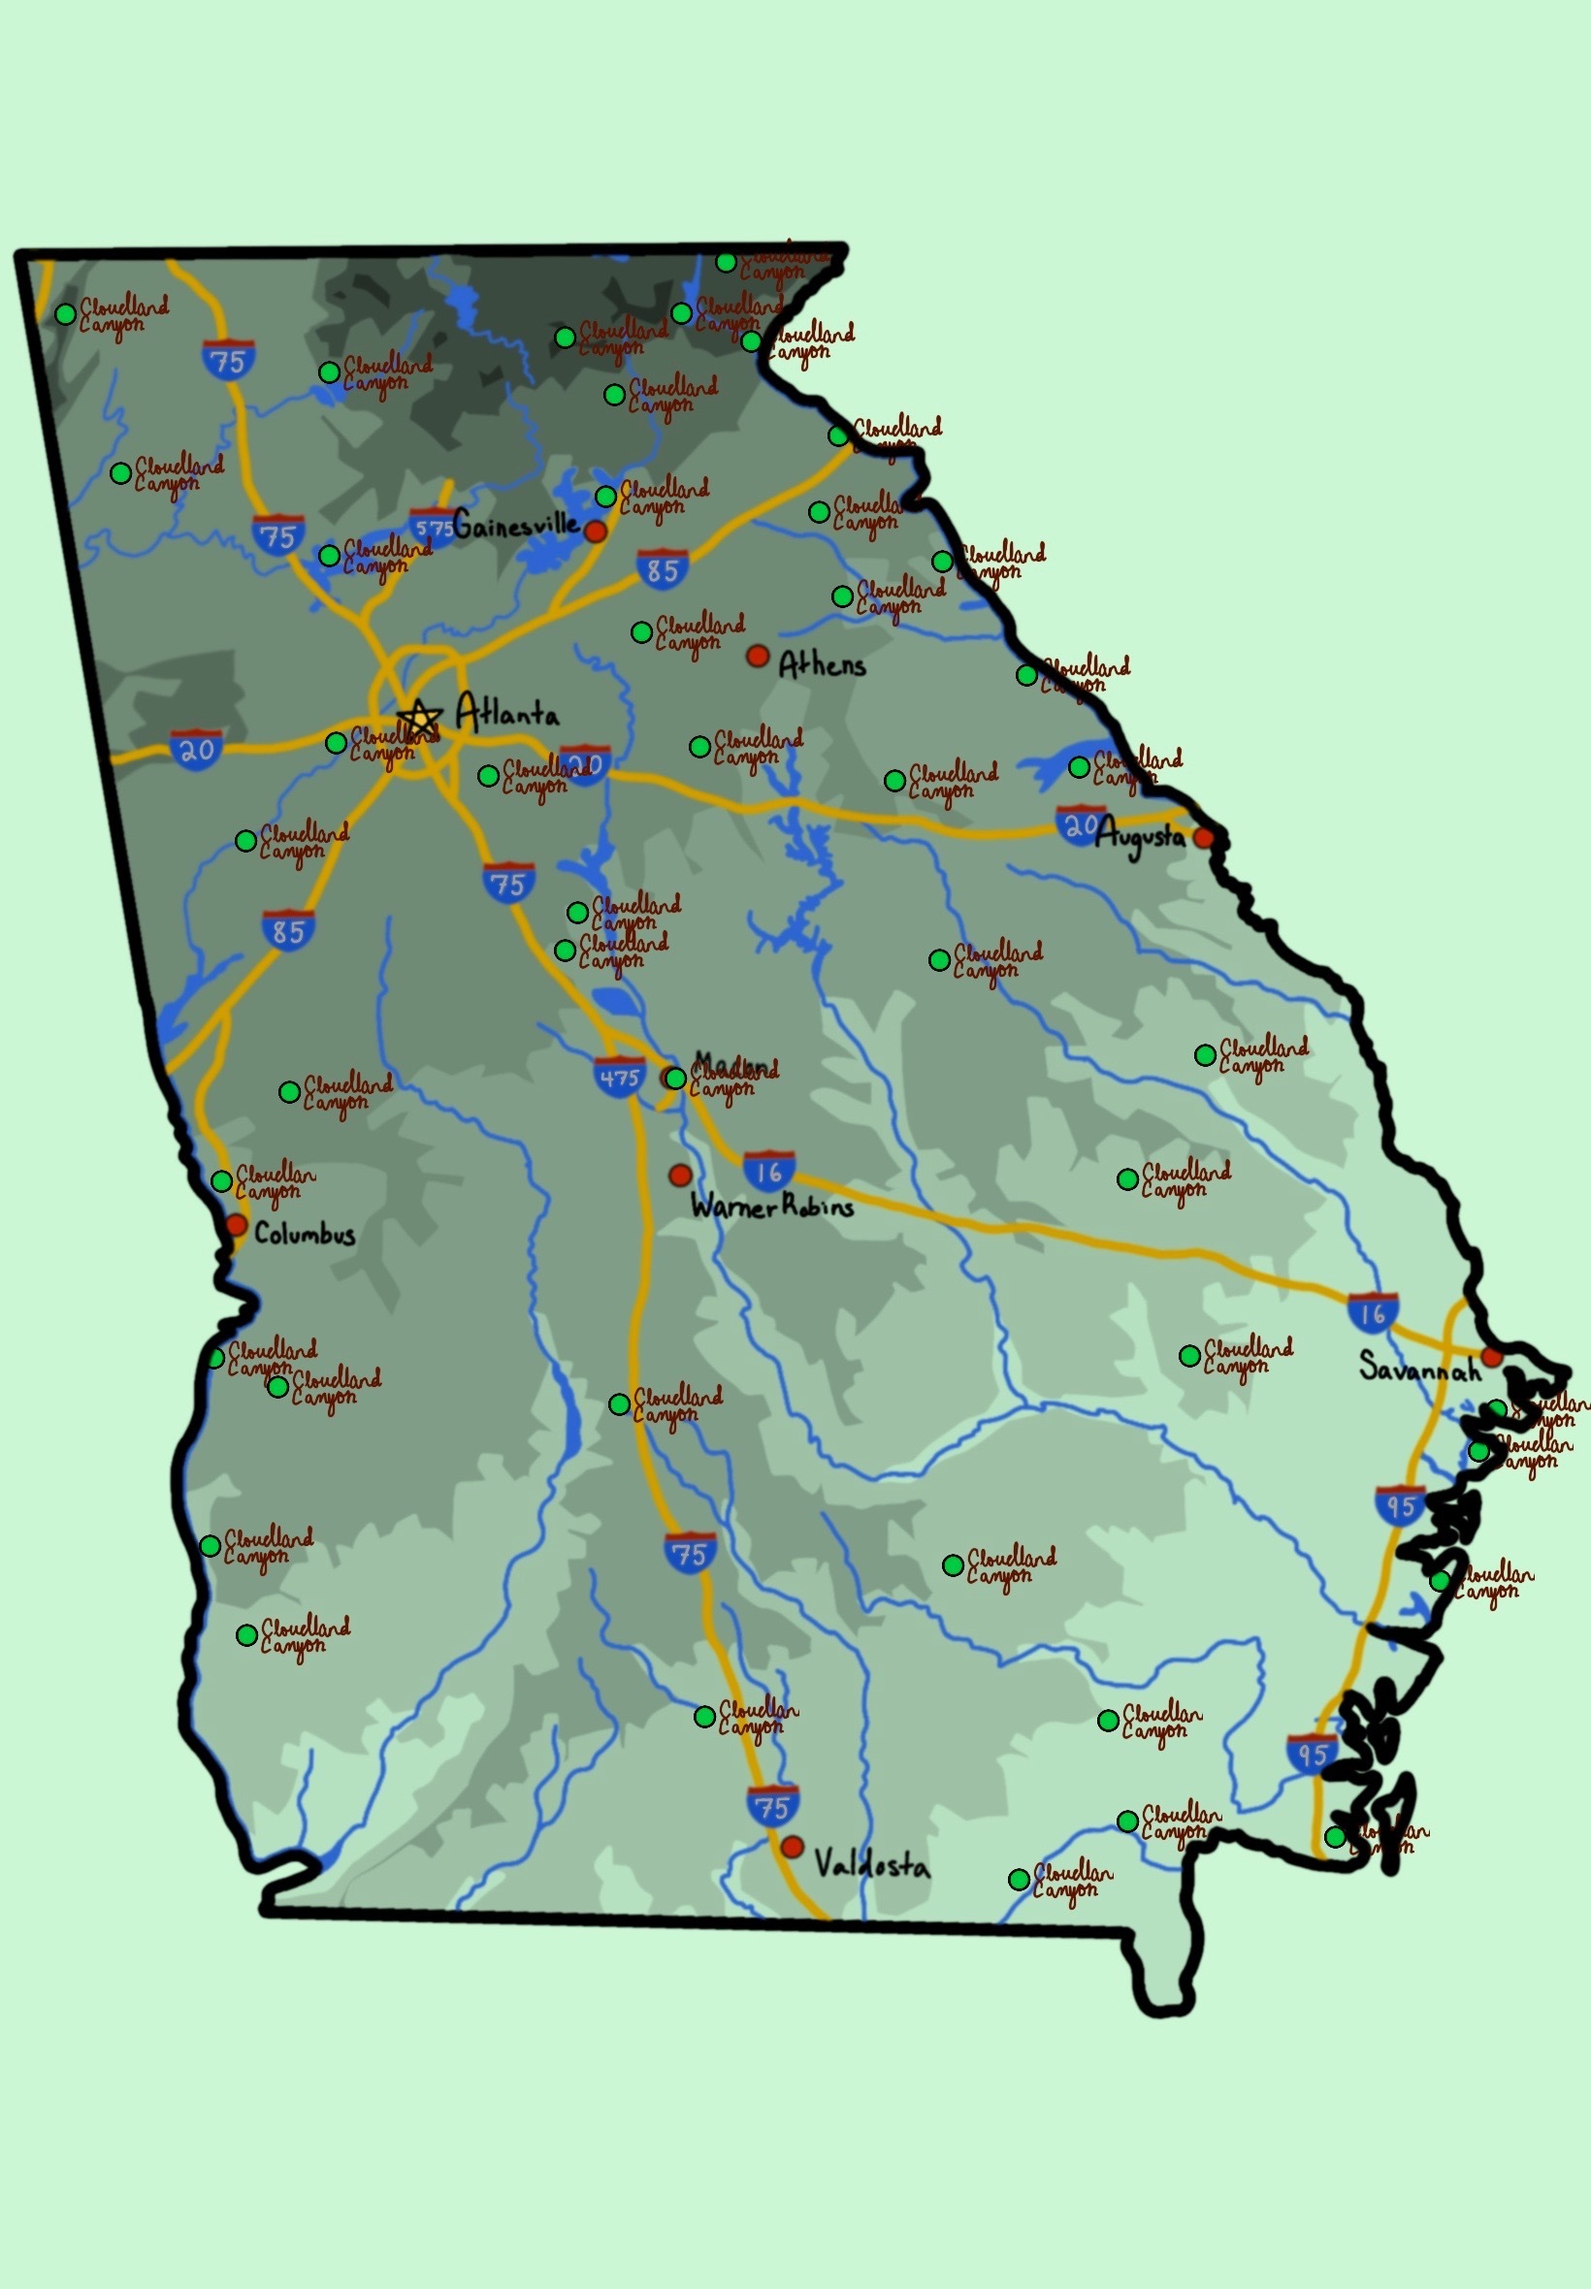
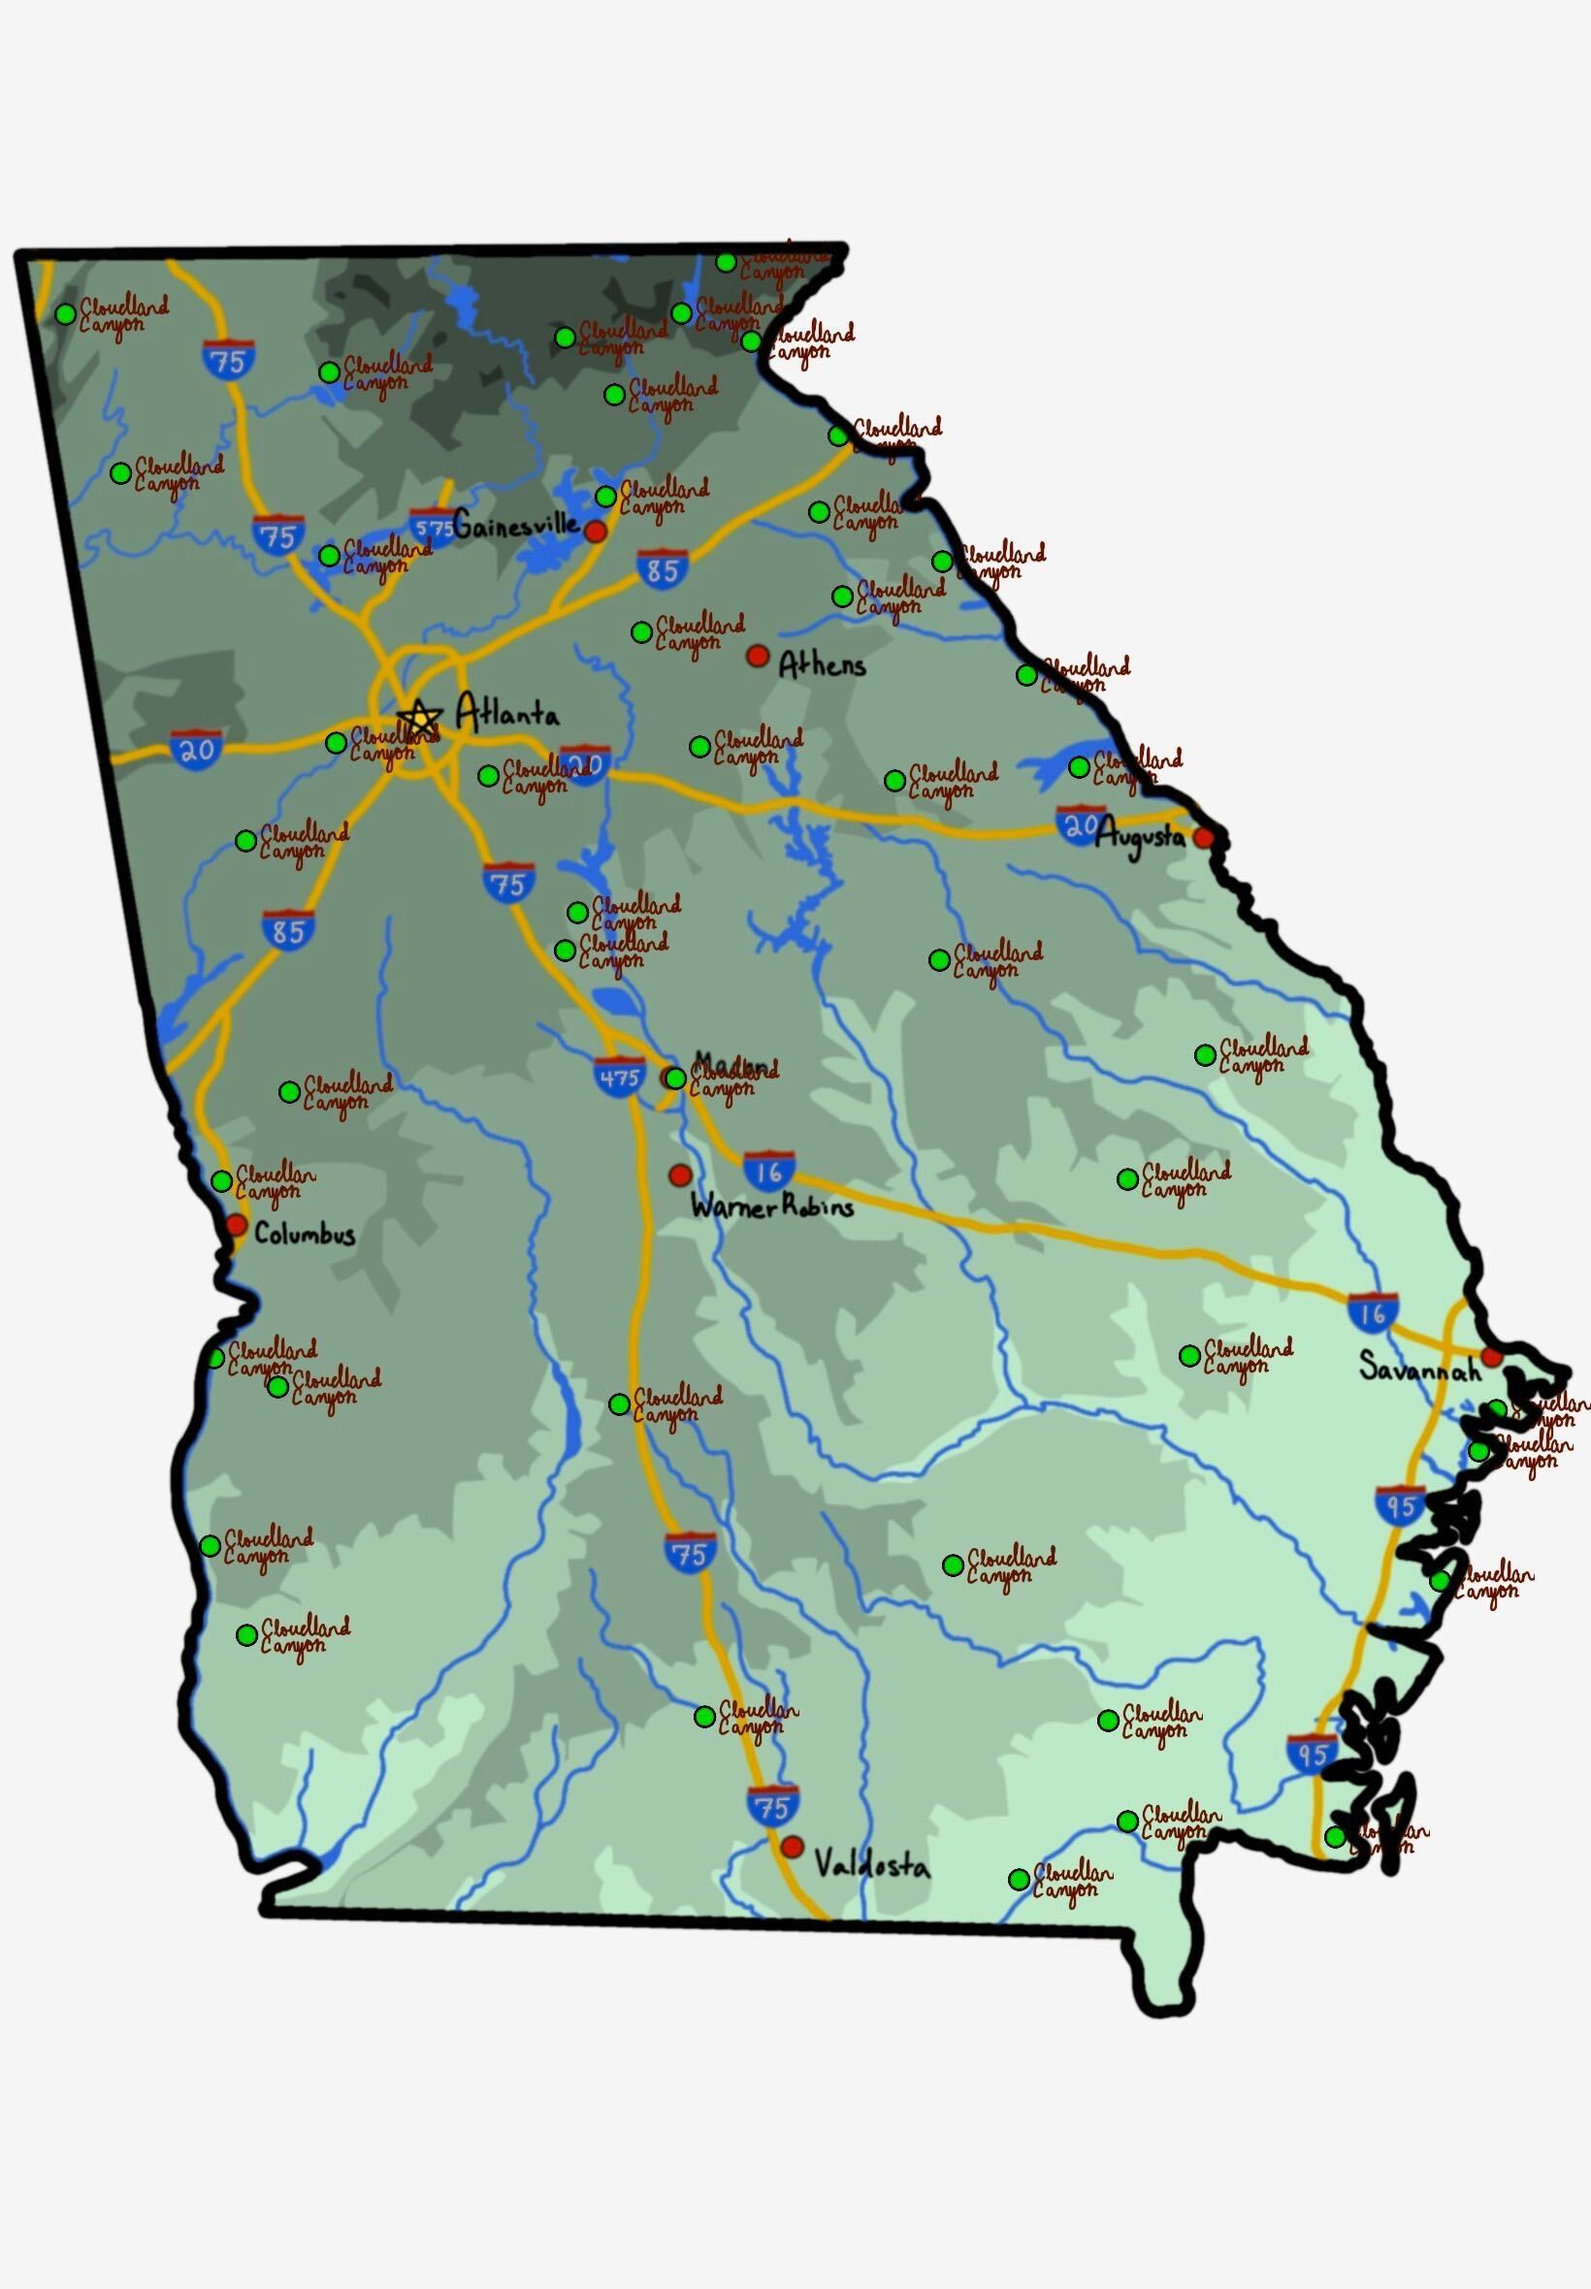
replaced background of statepark map color

diff --git a/style.css b/style.css
@@ -1,9 +1,10 @@
-body {
-    background-image: GMoneyHoops/Gabriela-Hoops/State Park Pictures/Moose.jpeg }
 div {
     text-align: center;
     margin-left: auto;
     margin-right: auto;
     width: 80%;
     background-color:lavender;
+}
+body{
+    background-image: url(./State\ Park\ Pictures/GA_State_Park_Map.jpeg);
 }
